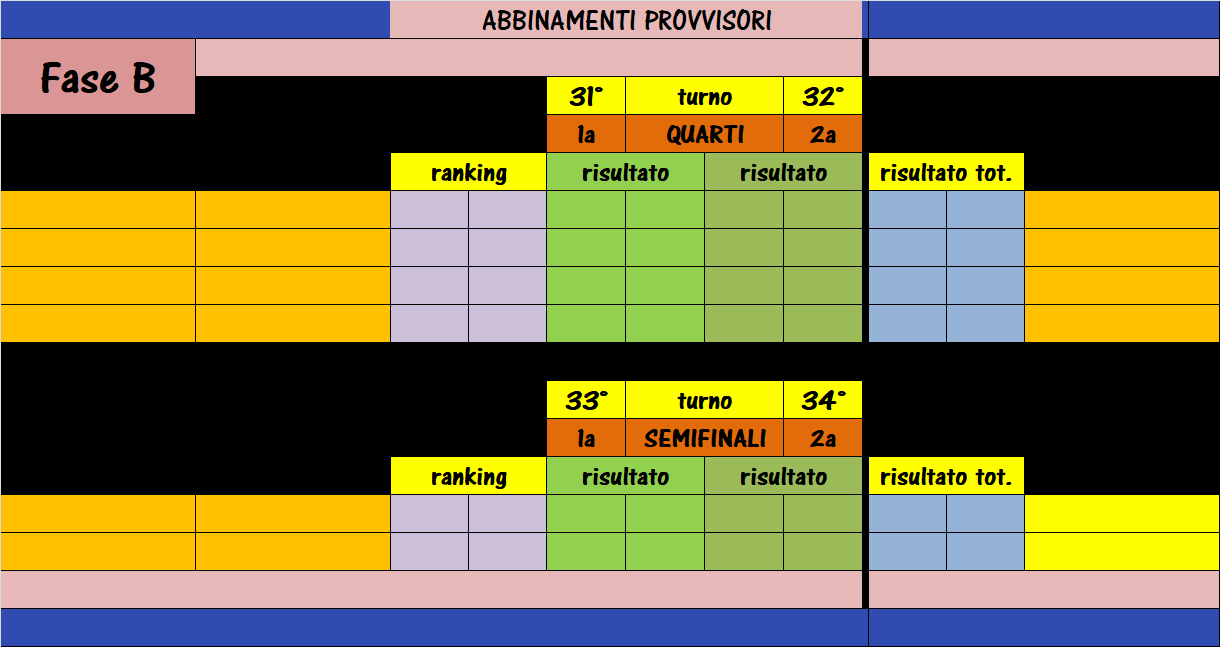
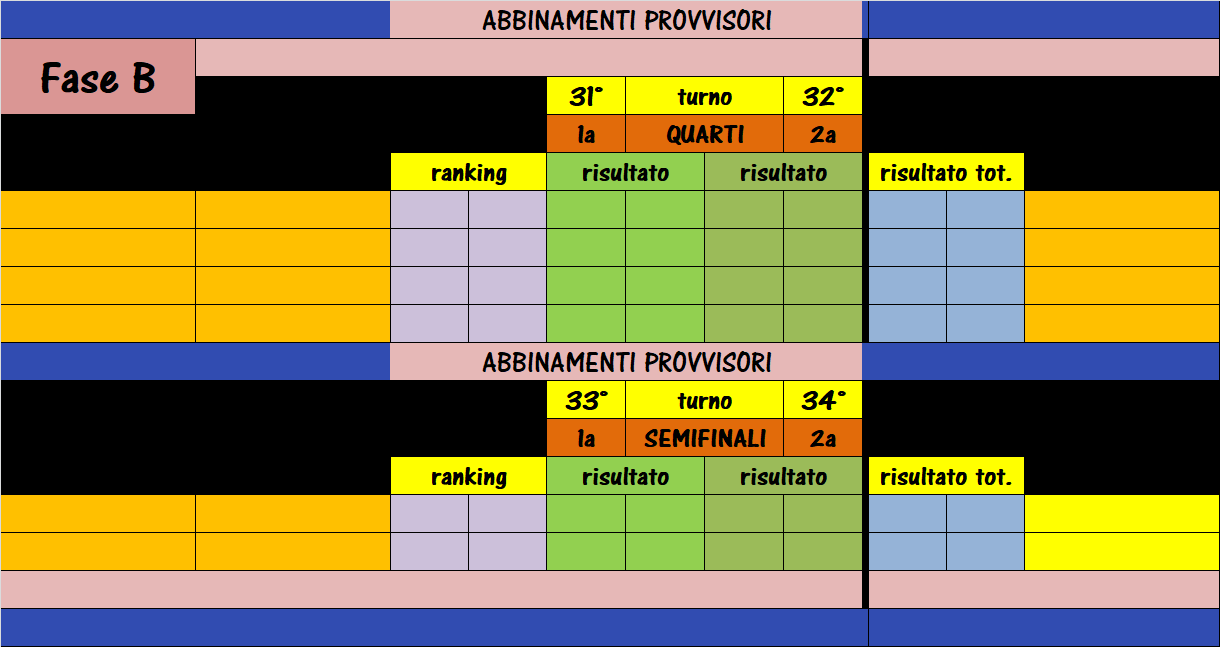
Fase C coppa riportata a misura originale e allineata a sinistra

Changed region(s): [[0.0, 0.5255, 1.0, 0.5873]]

diff --git a/visualizza_tabellini.html b/visualizza_tabellini.html
@@ -70,14 +70,14 @@
         
         <div class="frame">
             <h2>⚽ RISULTATI ⚽</h2>
-            <img src="foto_tabellini/risultati_partite.png?v=1794480435" class="img-larga"><br>
-            <img src="foto_tabellini/foto_extra.png?v=1794480435" class="img-extra">
+            <img src="foto_tabellini/risultati_partite.png?v=1794480643" class="img-larga"><br>
+            <img src="foto_tabellini/foto_extra.png?v=1794480643" class="img-extra">
         </div>
         <div class="frame" style="border-color: #00ff88;">
             <div class="flex-tab-class">
                 <div class="col-classifica-p1">
                     <h2>📊 CLASSIFICHE 📊</h2>
-                    <img src="foto_tabellini/classifica_turno_parte1.png?v=1794480435" class="img-classifica-ridotta">
+                    <img src="foto_tabellini/classifica_turno_parte1.png?v=1794480643" class="img-classifica-ridotta">
                 </div>
                 <div class="col-tabellini">
                     <h2>📝 TABELLINI 📝</h2>
@@ -92,17 +92,17 @@
             
                 <div style="background: #1a1a1a; border: 2px solid #00ff88; border-radius: 8px; padding: 10px; margin-bottom: 0px;">
                     <h4 style="color: #00ff88; margin: 2px 0 8px 0; font-size: 18px;">🥇 1°: RUDY</h4>
-                    <img src="foto_tabellini/RUDY.png?v=1794480435" style="width: 100%; border: 1px solid #444;">
+                    <img src="foto_tabellini/RUDY.png?v=1794480643" style="width: 100%; border: 1px solid #444;">
                 </div>
             <div style="font-size: 20px; line-height: 20px; margin: 4px auto; color: #00ff88; text-shadow: 0 0 8px #00ff88;">▼</div>
                 <div style="background: #1a1a1a; border: 2px solid #00ff88; border-radius: 8px; padding: 10px; margin-bottom: 0px;">
                     <h4 style="color: #00ff88; margin: 2px 0 8px 0; font-size: 18px;">🥈 2°: SANDRO</h4>
-                    <img src="foto_tabellini/SANDRO.png?v=1794480435" style="width: 100%; border: 1px solid #444;">
+                    <img src="foto_tabellini/SANDRO.png?v=1794480643" style="width: 100%; border: 1px solid #444;">
                 </div>
             <div style="font-size: 20px; line-height: 20px; margin: 4px auto; color: #00ff88; text-shadow: 0 0 8px #00ff88;">▼</div>
                 <div style="background: #1a1a1a; border: 2px solid #00ff88; border-radius: 8px; padding: 10px; margin-bottom: 0px;">
                     <h4 style="color: #00ff88; margin: 2px 0 8px 0; font-size: 18px;">🥉 3°: ANTONIO</h4>
-                    <img src="foto_tabellini/ANTONIO.png?v=1794480435" style="width: 100%; border: 1px solid #444;">
+                    <img src="foto_tabellini/ANTONIO.png?v=1794480643" style="width: 100%; border: 1px solid #444;">
                 </div>
             
         </div>
@@ -121,17 +121,17 @@
                 
                 <div style="background: #1a1a1a; border: 2px solid #00ff88; border-radius: 8px; padding: 10px; width: 31.5%;">
                     <h4 style="color: #00ff88; margin: 2px 0 8px 0; font-size: 18px;">🥇 1°: MARK</h4>
-                    <img src="foto_tabellini/MARK.png?v=1794480435" style="width: 100%; border: 1px solid #444;">
+                    <img src="foto_tabellini/MARK.png?v=1794480643" style="width: 100%; border: 1px solid #444;">
                 </div>
             <div style="font-size: 22px; align-self: center; margin: 0 4px; color: #00ff88; text-shadow: 0 0 8px #00ff88;">▶</div>
                 <div style="background: #1a1a1a; border: 2px solid #00ff88; border-radius: 8px; padding: 10px; width: 31.5%;">
                     <h4 style="color: #00ff88; margin: 2px 0 8px 0; font-size: 18px;">🥈 2°: DANIELE</h4>
-                    <img src="foto_tabellini/DANIELE.png?v=1794480435" style="width: 100%; border: 1px solid #444;">
+                    <img src="foto_tabellini/DANIELE.png?v=1794480643" style="width: 100%; border: 1px solid #444;">
                 </div>
             <div style="font-size: 22px; align-self: center; margin: 0 4px; color: #00ff88; text-shadow: 0 0 8px #00ff88;">▶</div>
                 <div style="background: #1a1a1a; border: 2px solid #00ff88; border-radius: 8px; padding: 10px; width: 31.5%;">
                     <h4 style="color: #00ff88; margin: 2px 0 8px 0; font-size: 18px;">🥉 3°: ANTONIO</h4>
-                    <img src="foto_tabellini/ANTONIO.png?v=1794480435" style="width: 100%; border: 1px solid #444;">
+                    <img src="foto_tabellini/ANTONIO.png?v=1794480643" style="width: 100%; border: 1px solid #444;">
                 </div>
             
             </div>
@@ -142,7 +142,7 @@
             
 
             <div style="margin-top: 20px;">
-                <img src="foto_tabellini/classifica_turno_parte2.png?v=1794480435" class="img-larga">
+                <img src="foto_tabellini/classifica_turno_parte2.png?v=1794480643" class="img-larga">
                 <div style="width: 98%; max-width: 100%; margin: 0 auto;">
                     
                 </div>
@@ -167,9 +167,9 @@
         
         <!-- FASE 1 (Fase A) -->
         <div class="frame" style="border-color: #ff8c00;">
-            <img src="foto_tabellini/coppa_fase1_parte2.png?v=1794480435" class="coppa-img">
+            <img src="foto_tabellini/coppa_fase1_parte2.png?v=1794480643" class="coppa-img">
             <div class="colonna-destra">
-                <img src="foto_tabellini/coppa_fase1_parte1.png?v=1794480435" style="width:100%; border:2px solid #ff8c00;">
+                <img src="foto_tabellini/coppa_fase1_parte1.png?v=1794480643" style="width:100%; border:2px solid #ff8c00;">
                 
                 
         <div style="margin-top: 20px; border: 2px solid #ff8c00; border-radius: 10px; padding: 12px; background: #0e0e0e;">
@@ -183,17 +183,17 @@
                     
                 <div style="background: #1a1a1a; border: 2px solid #ff8c00; border-radius: 8px; padding: 8px; margin-bottom: 0px;">
                     <h4 style="color: #ff8c00; margin: 2px 0 5px 0; font-size: 16px;">🥇 1°: RUDY</h4>
-                    <img src="foto_tabellini/coppa_tab_RUDY.png?v=1794480435" style="width: 100%; border: 1px solid #444;">
+                    <img src="foto_tabellini/coppa_tab_RUDY.png?v=1794480643" style="width: 100%; border: 1px solid #444;">
                 </div>
             <div style="font-size: 18px; line-height: 18px; margin: 4px auto; color: #ff8c00; text-shadow: 0 0 8px #ff8c00;">▼</div>
                 <div style="background: #1a1a1a; border: 2px solid #ff8c00; border-radius: 8px; padding: 8px; margin-bottom: 0px;">
                     <h4 style="color: #ff8c00; margin: 2px 0 5px 0; font-size: 16px;">🥈 2°: PIOCICCIO</h4>
-                    <img src="foto_tabellini/coppa_tab_PIOCICCIO.png?v=1794480435" style="width: 100%; border: 1px solid #444;">
+                    <img src="foto_tabellini/coppa_tab_PIOCICCIO.png?v=1794480643" style="width: 100%; border: 1px solid #444;">
                 </div>
             <div style="font-size: 18px; line-height: 18px; margin: 4px auto; color: #ff8c00; text-shadow: 0 0 8px #ff8c00;">▼</div>
                 <div style="background: #1a1a1a; border: 2px solid #ff8c00; border-radius: 8px; padding: 8px; margin-bottom: 0px;">
                     <h4 style="color: #ff8c00; margin: 2px 0 5px 0; font-size: 16px;">🥉 3°: ELEMENTARY</h4>
-                    <img src="foto_tabellini/coppa_tab_ELEMENTARY.png?v=1794480435" style="width: 100%; border: 1px solid #444;">
+                    <img src="foto_tabellini/coppa_tab_ELEMENTARY.png?v=1794480643" style="width: 100%; border: 1px solid #444;">
                 </div>
             
                 </div>
@@ -201,17 +201,17 @@
                     
                 <div style="background: #1a1a1a; border: 2px solid #ff8c00; border-radius: 8px; padding: 8px; margin-bottom: 0px;">
                     <h4 style="color: #ff8c00; margin: 2px 0 5px 0; font-size: 16px;">🥇 1°: PIOCICCIO</h4>
-                    <img src="foto_tabellini/coppa_tab_PIOCICCIO.png?v=1794480435" style="width: 100%; border: 1px solid #444;">
+                    <img src="foto_tabellini/coppa_tab_PIOCICCIO.png?v=1794480643" style="width: 100%; border: 1px solid #444;">
                 </div>
             <div style="font-size: 18px; line-height: 18px; margin: 4px auto; color: #ff8c00; text-shadow: 0 0 8px #ff8c00;">▼</div>
                 <div style="background: #1a1a1a; border: 2px solid #ff8c00; border-radius: 8px; padding: 8px; margin-bottom: 0px;">
                     <h4 style="color: #ff8c00; margin: 2px 0 5px 0; font-size: 16px;">🥈 2°: RUDY</h4>
-                    <img src="foto_tabellini/coppa_tab_RUDY.png?v=1794480435" style="width: 100%; border: 1px solid #444;">
+                    <img src="foto_tabellini/coppa_tab_RUDY.png?v=1794480643" style="width: 100%; border: 1px solid #444;">
                 </div>
             <div style="font-size: 18px; line-height: 18px; margin: 4px auto; color: #ff8c00; text-shadow: 0 0 8px #ff8c00;">▼</div>
                 <div style="background: #1a1a1a; border: 2px solid #ff8c00; border-radius: 8px; padding: 8px; margin-bottom: 0px;">
                     <h4 style="color: #ff8c00; margin: 2px 0 5px 0; font-size: 16px;">🥉 3°: ELEMENTARY</h4>
-                    <img src="foto_tabellini/coppa_tab_ELEMENTARY.png?v=1794480435" style="width: 100%; border: 1px solid #444;">
+                    <img src="foto_tabellini/coppa_tab_ELEMENTARY.png?v=1794480643" style="width: 100%; border: 1px solid #444;">
                 </div>
             
                 </div>
@@ -225,9 +225,9 @@
         
         <!-- FASE 2 (Fase B) -->
         <div class="frame" style="border-color: #ff8c00;">
-            <img src="foto_tabellini/coppa_fase2_parte2.png?v=1794480435" class="coppa-img">
+            <img src="foto_tabellini/coppa_fase2_parte2.png?v=1794480643" class="coppa-img">
             <div class="colonna-destra">
-                <img src="foto_tabellini/coppa_fase2_parte1.png?v=1794480435" style="width:100%; border:2px solid #ff8c00;">
+                <img src="foto_tabellini/coppa_fase2_parte1.png?v=1794480643" style="width:100%; border:2px solid #ff8c00;">
                 
                 
             </div>
@@ -235,14 +235,14 @@
         
         <!-- FASE 3 (Fase C) - Grandezza originale ma allineata tutta a sinistra -->
         <div class="frame" style="border-color: #ff8c00; text-align: left;">
-            <img src="foto_tabellini/coppa_fase3_parte1.png?v=1794480435" class="coppa-img-fase3">
+            <img src="foto_tabellini/coppa_fase3_parte1.png?v=1794480643" class="coppa-img-fase3">
         </div>
     </div>
     <div class="settore-blu">
         <h1 style="color: #00bfff; font-size: 50px;">🏆 Torneo FUORI L'ULTIMO 🏆</h1>
         <img src="immagini_fisse/REGOLE FUORI ULTIMO.png" style="width: 40%; border: 2px solid #00bfff; margin: 10px;">
         <h2 style="margin-top: 20px;">📊 RISULTATI e CLASSIFICHE 📊</h2>
-        <div class="frame" style="border-color: #00bfff;"><img src="foto_tabellini/fuori_parte1.png?v=1794480435" class="fuori-img"><div class="colonna-destra"><img src="foto_tabellini/fuori_parte2.png?v=1794480435" style="width:100%; border:2px solid #00bfff;"></div></div>
-        <div class="frame" style="border-color: #00bfff;"><img src="foto_tabellini/fuori_parte3.png?v=1794480435" class="fuori-img-larga"></div></div>
+        <div class="frame" style="border-color: #00bfff;"><img src="foto_tabellini/fuori_parte1.png?v=1794480643" class="fuori-img"><div class="colonna-destra"><img src="foto_tabellini/fuori_parte2.png?v=1794480643" style="width:100%; border:2px solid #00bfff;"></div></div>
+        <div class="frame" style="border-color: #00bfff;"><img src="foto_tabellini/fuori_parte3.png?v=1794480643" class="fuori-img-larga"></div></div>
     </div>
 </body></html>
